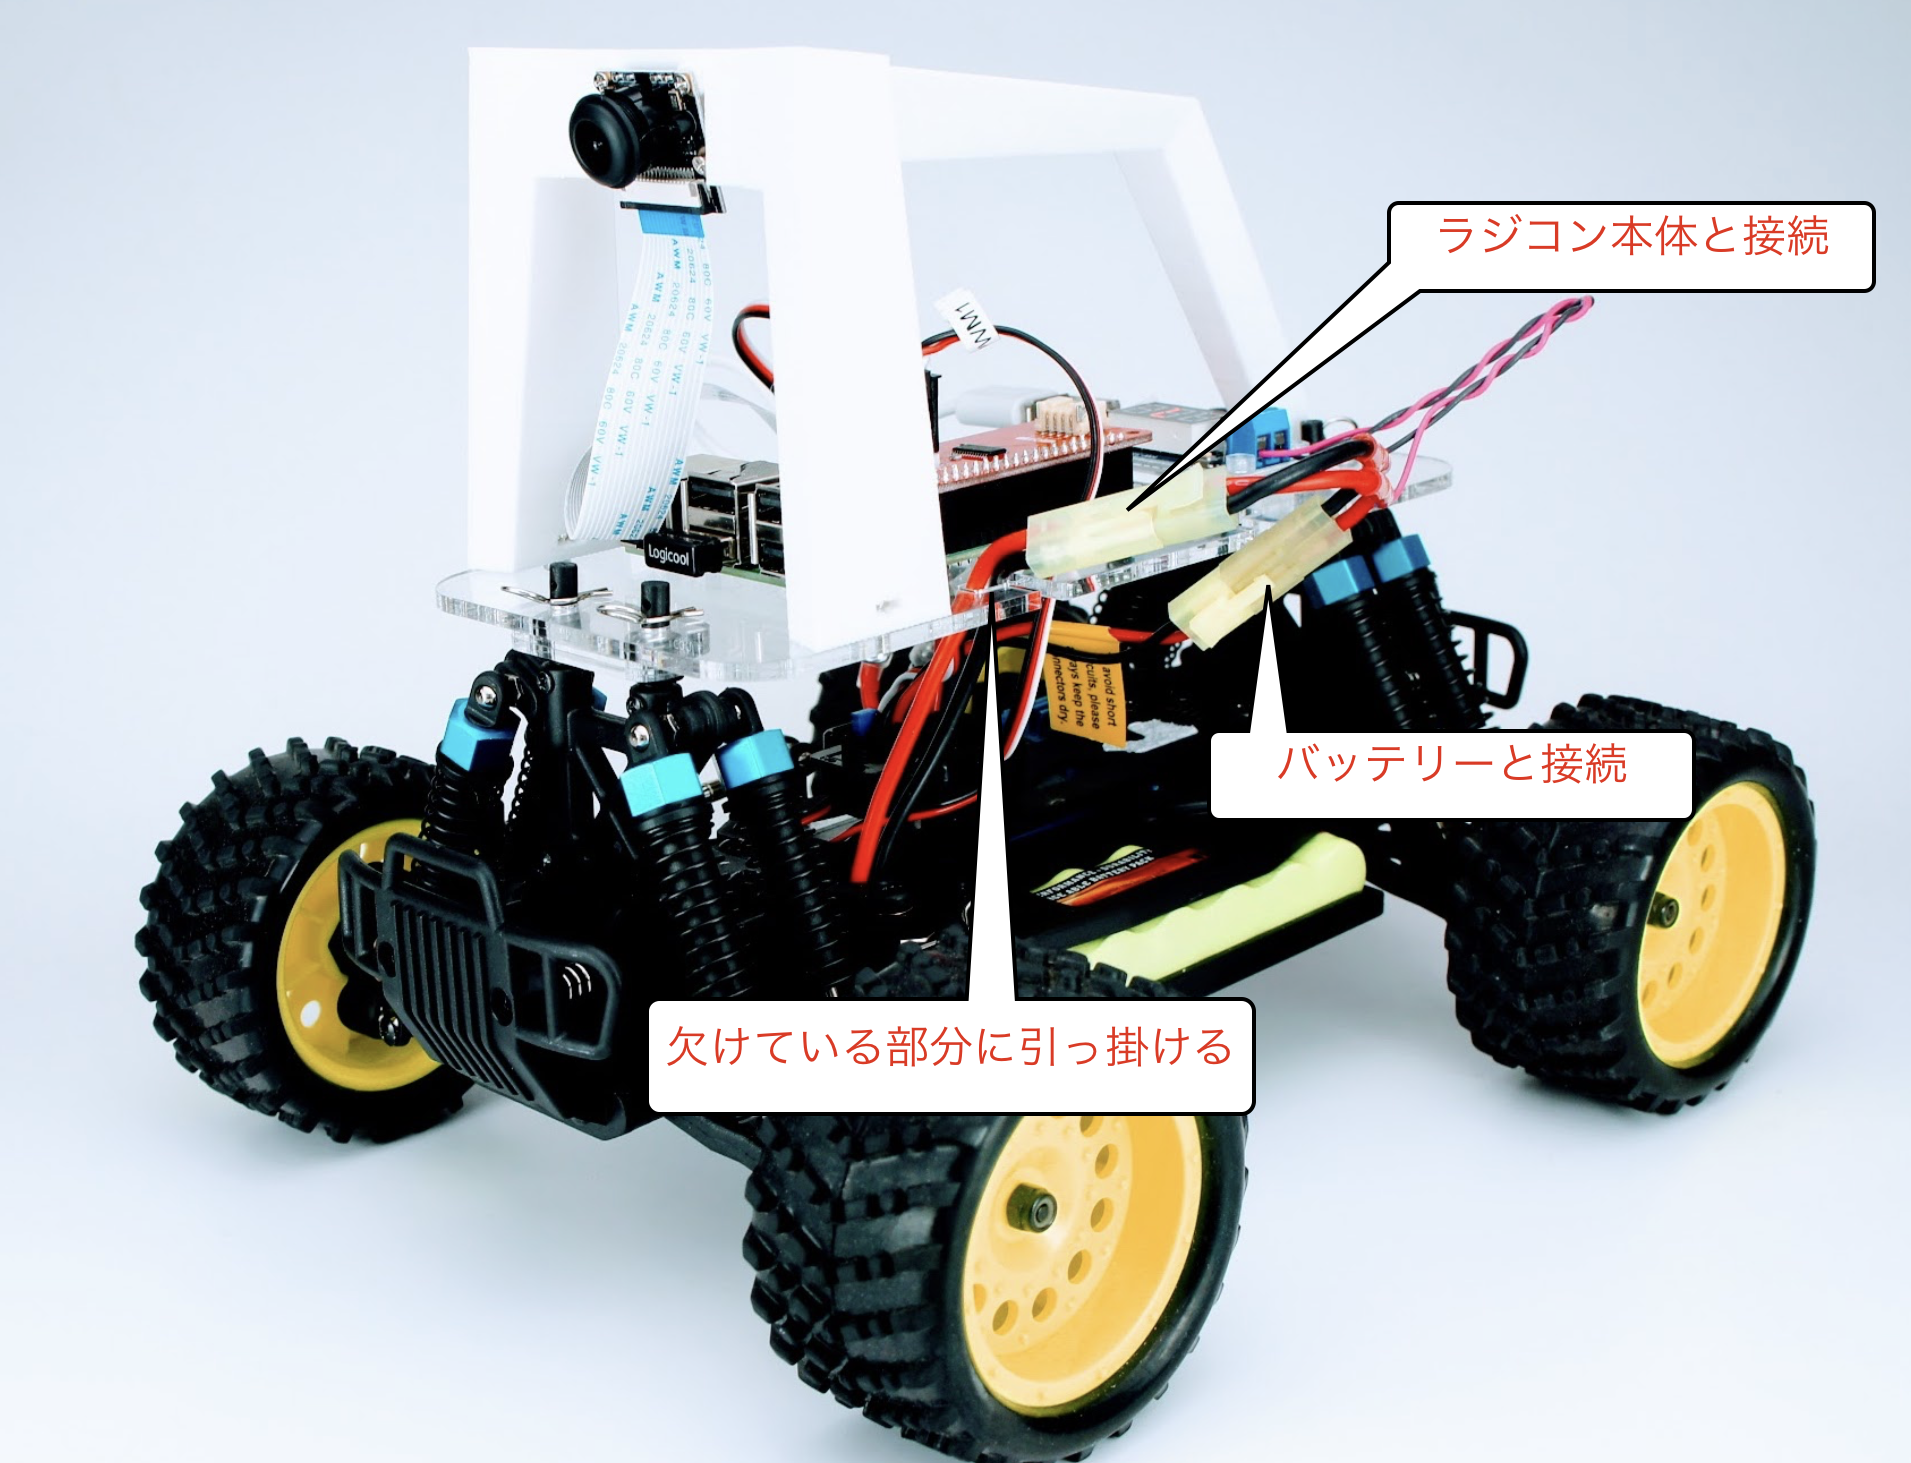
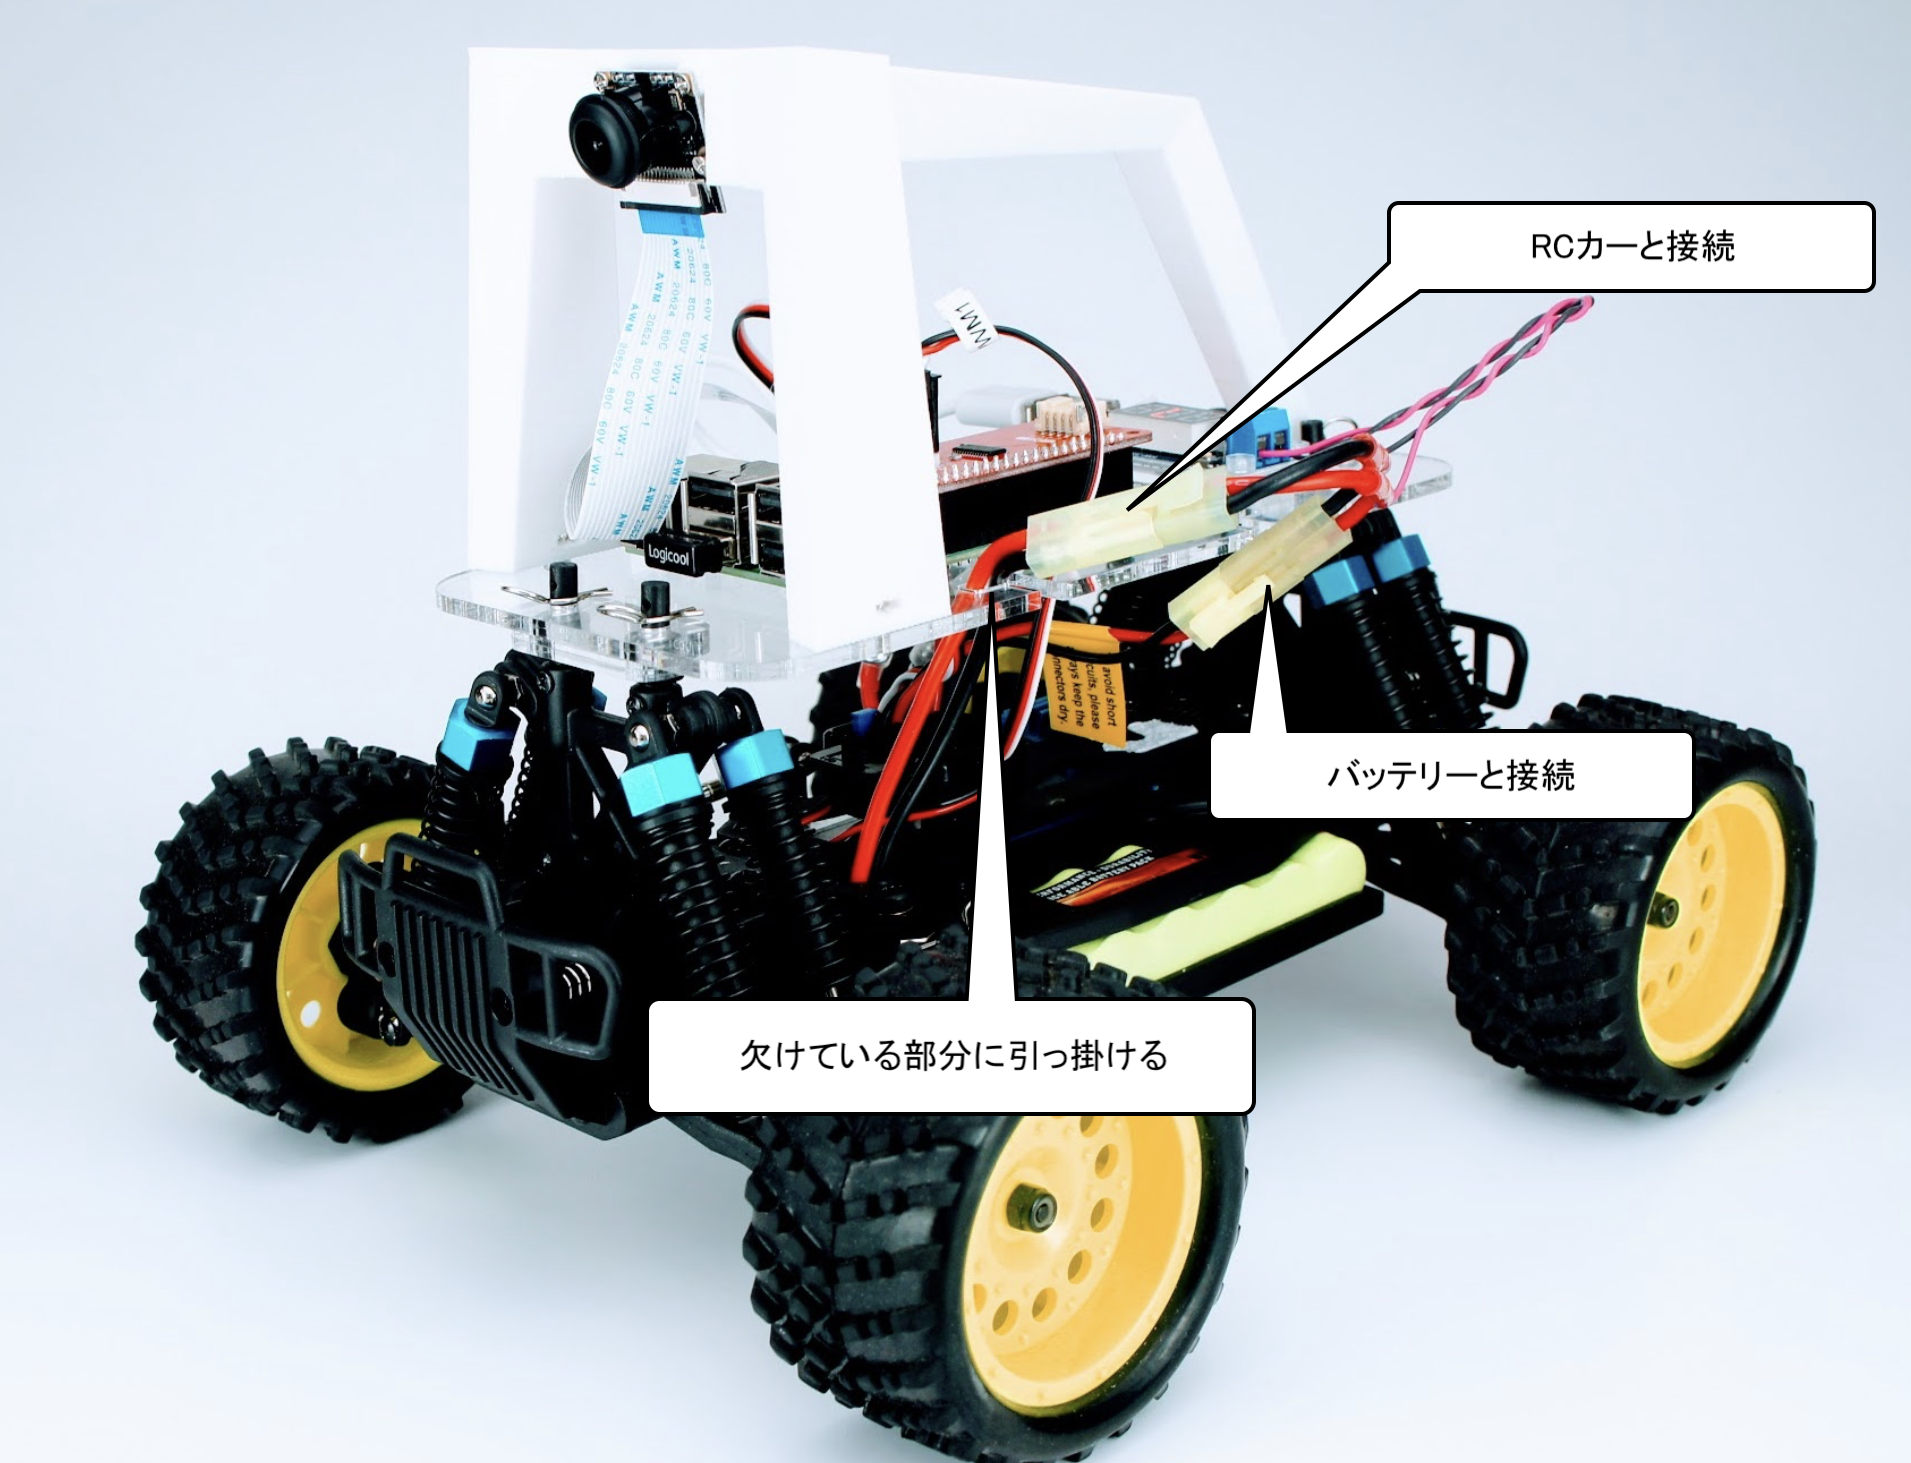
Deployed fdd17c2 with MkDocs version: 1.1.2

Changed region(s): [[0.6792, 0.4921, 0.8645, 0.5537], [0.3396, 0.7075, 0.6484, 0.7382], [0.7718, 0.1538, 0.9571, 0.1846]]

diff --git a/1.車体作成/00.DCK-R1/index.html b/1.車体作成/00.DCK-R1/index.html
@@ -1046,7 +1046,7 @@
 <td align="left">4</td>
 </tr>
 <tr>
-<td align="left"></td>
+<td align="left"><img alt="" src="../img/pt007.jpg" /></td>
 <td align="left">Donkeyアクリル</td>
 <td align="left">1</td>
 </tr>
@@ -1080,8 +1080,8 @@
 </tr>
 <tr>
 <td align="left"></td>
-<td align="left"></td>
 <td align="left">RaspPi3B+</td>
+<td align="left">1</td>
 </tr>
 </tbody>
 </table>
@@ -1116,7 +1116,7 @@
 <td align="left">2</td>
 </tr>
 <tr>
-<td align="left"></td>
+<td align="left"><img alt="" src="../img/pt012.jpg" /></td>
 <td align="left">アクリルスペーサー</td>
 <td align="left">1</td>
 </tr>
@@ -1142,7 +1142,7 @@
 <tbody>
 <tr>
 <td align="left"></td>
-<td align="left">USB Cable</td>
+<td align="left">USBケーブル</td>
 <td align="left">1</td>
 </tr>
 </tbody>
@@ -1170,11 +1170,11 @@
 </tr>
 </tbody>
 </table>
-<p>電源用のコネクタを昇圧基板に取り付けます。+と-を間違えないようにしてください。</p>
+<p>電源用のコネクタを昇圧基板に取り付けます。極性を間違えないようにしてください。</p>
 <p><img alt="" src="../img/carkit009.png" /></p>
 <div class="admonition warning">
 <p class="admonition-title">注意点</p>
-<p>電源ケーブルの+と-を絶対に間違わないようにしてください。また、バッテリー装着時に、被膜がついていない部分をくっつけるとショートしますので、取扱には細心の注意をはらってください。</p>
+<p>電源ケーブルのプラス（＋）とマイナス（ー）を絶対に間違わないようにしてください。また、バッテリー装着時に被膜がついていない部分を接触させるとショートしますので、取り扱いには細心の注意をはらってください。</p>
 </div>
 <hr>
 
@@ -1191,7 +1191,7 @@
 </thead>
 <tbody>
 <tr>
-<td align="left"></td>
+<td align="left"><img alt="" src="../img/pt011.jpg" /></td>
 <td align="left">Donkeyアーム</td>
 <td align="left">1</td>
 </tr>
@@ -1265,7 +1265,7 @@
 <tbody>
 <tr>
 <td align="left"></td>
-<td align="left">固定ピン</td>
+<td align="left">固定ピン<br>※RCカー付属</td>
 <td align="left">4</td>
 </tr>
 </tbody>
